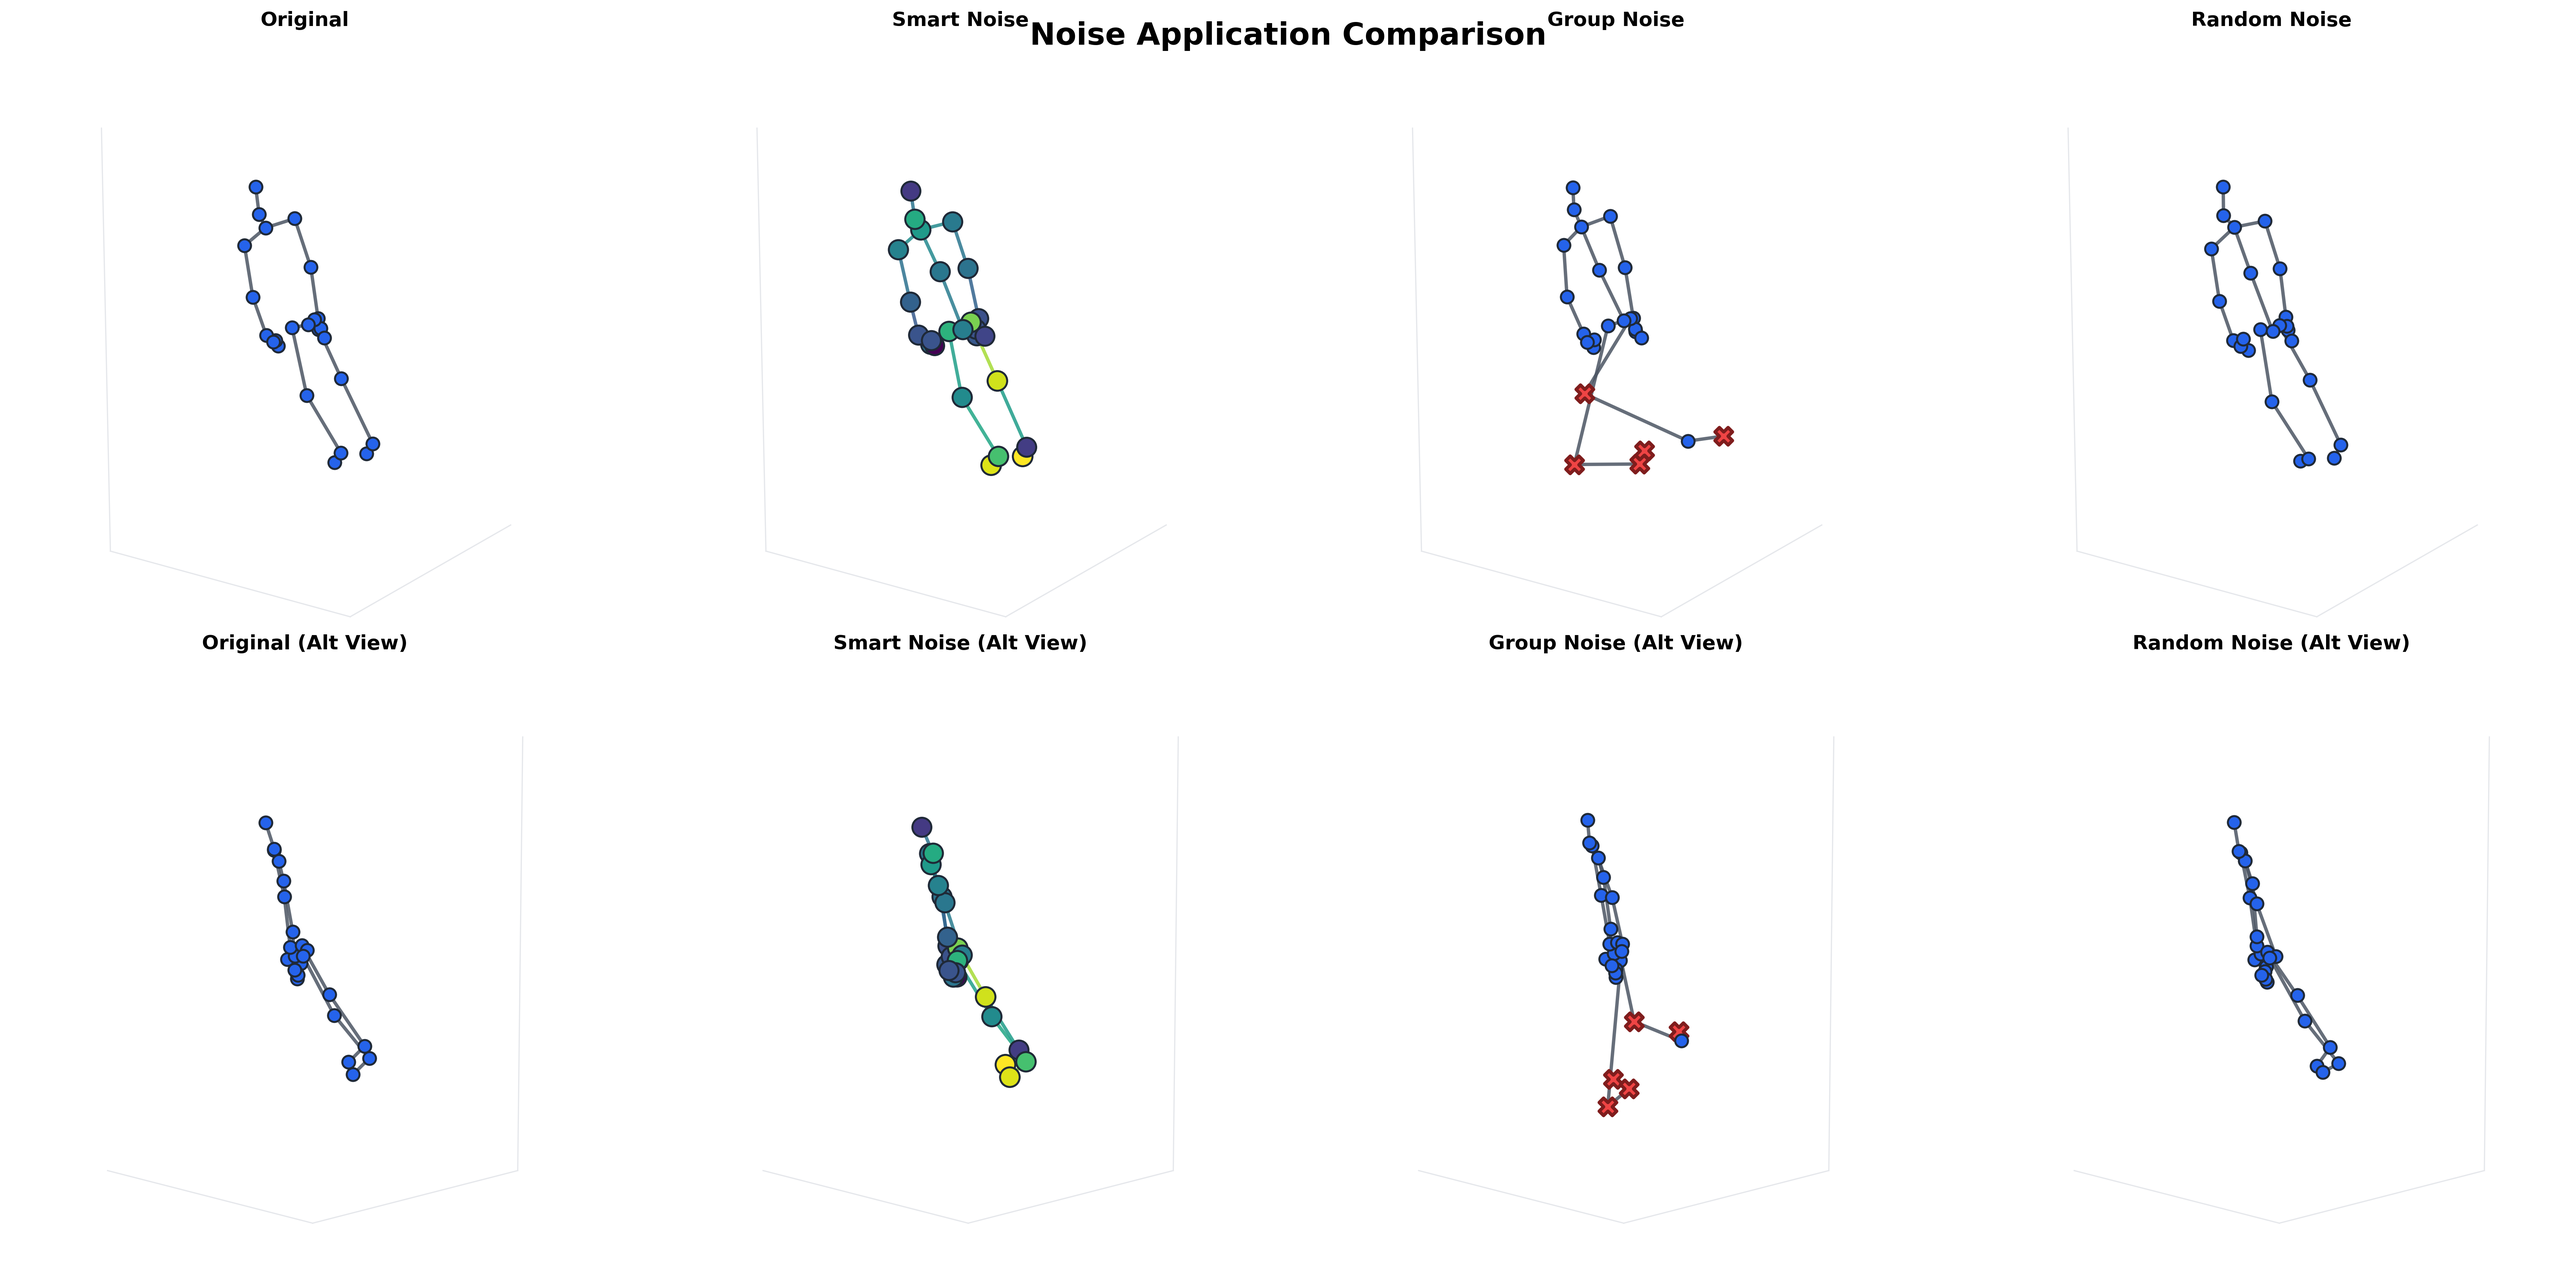
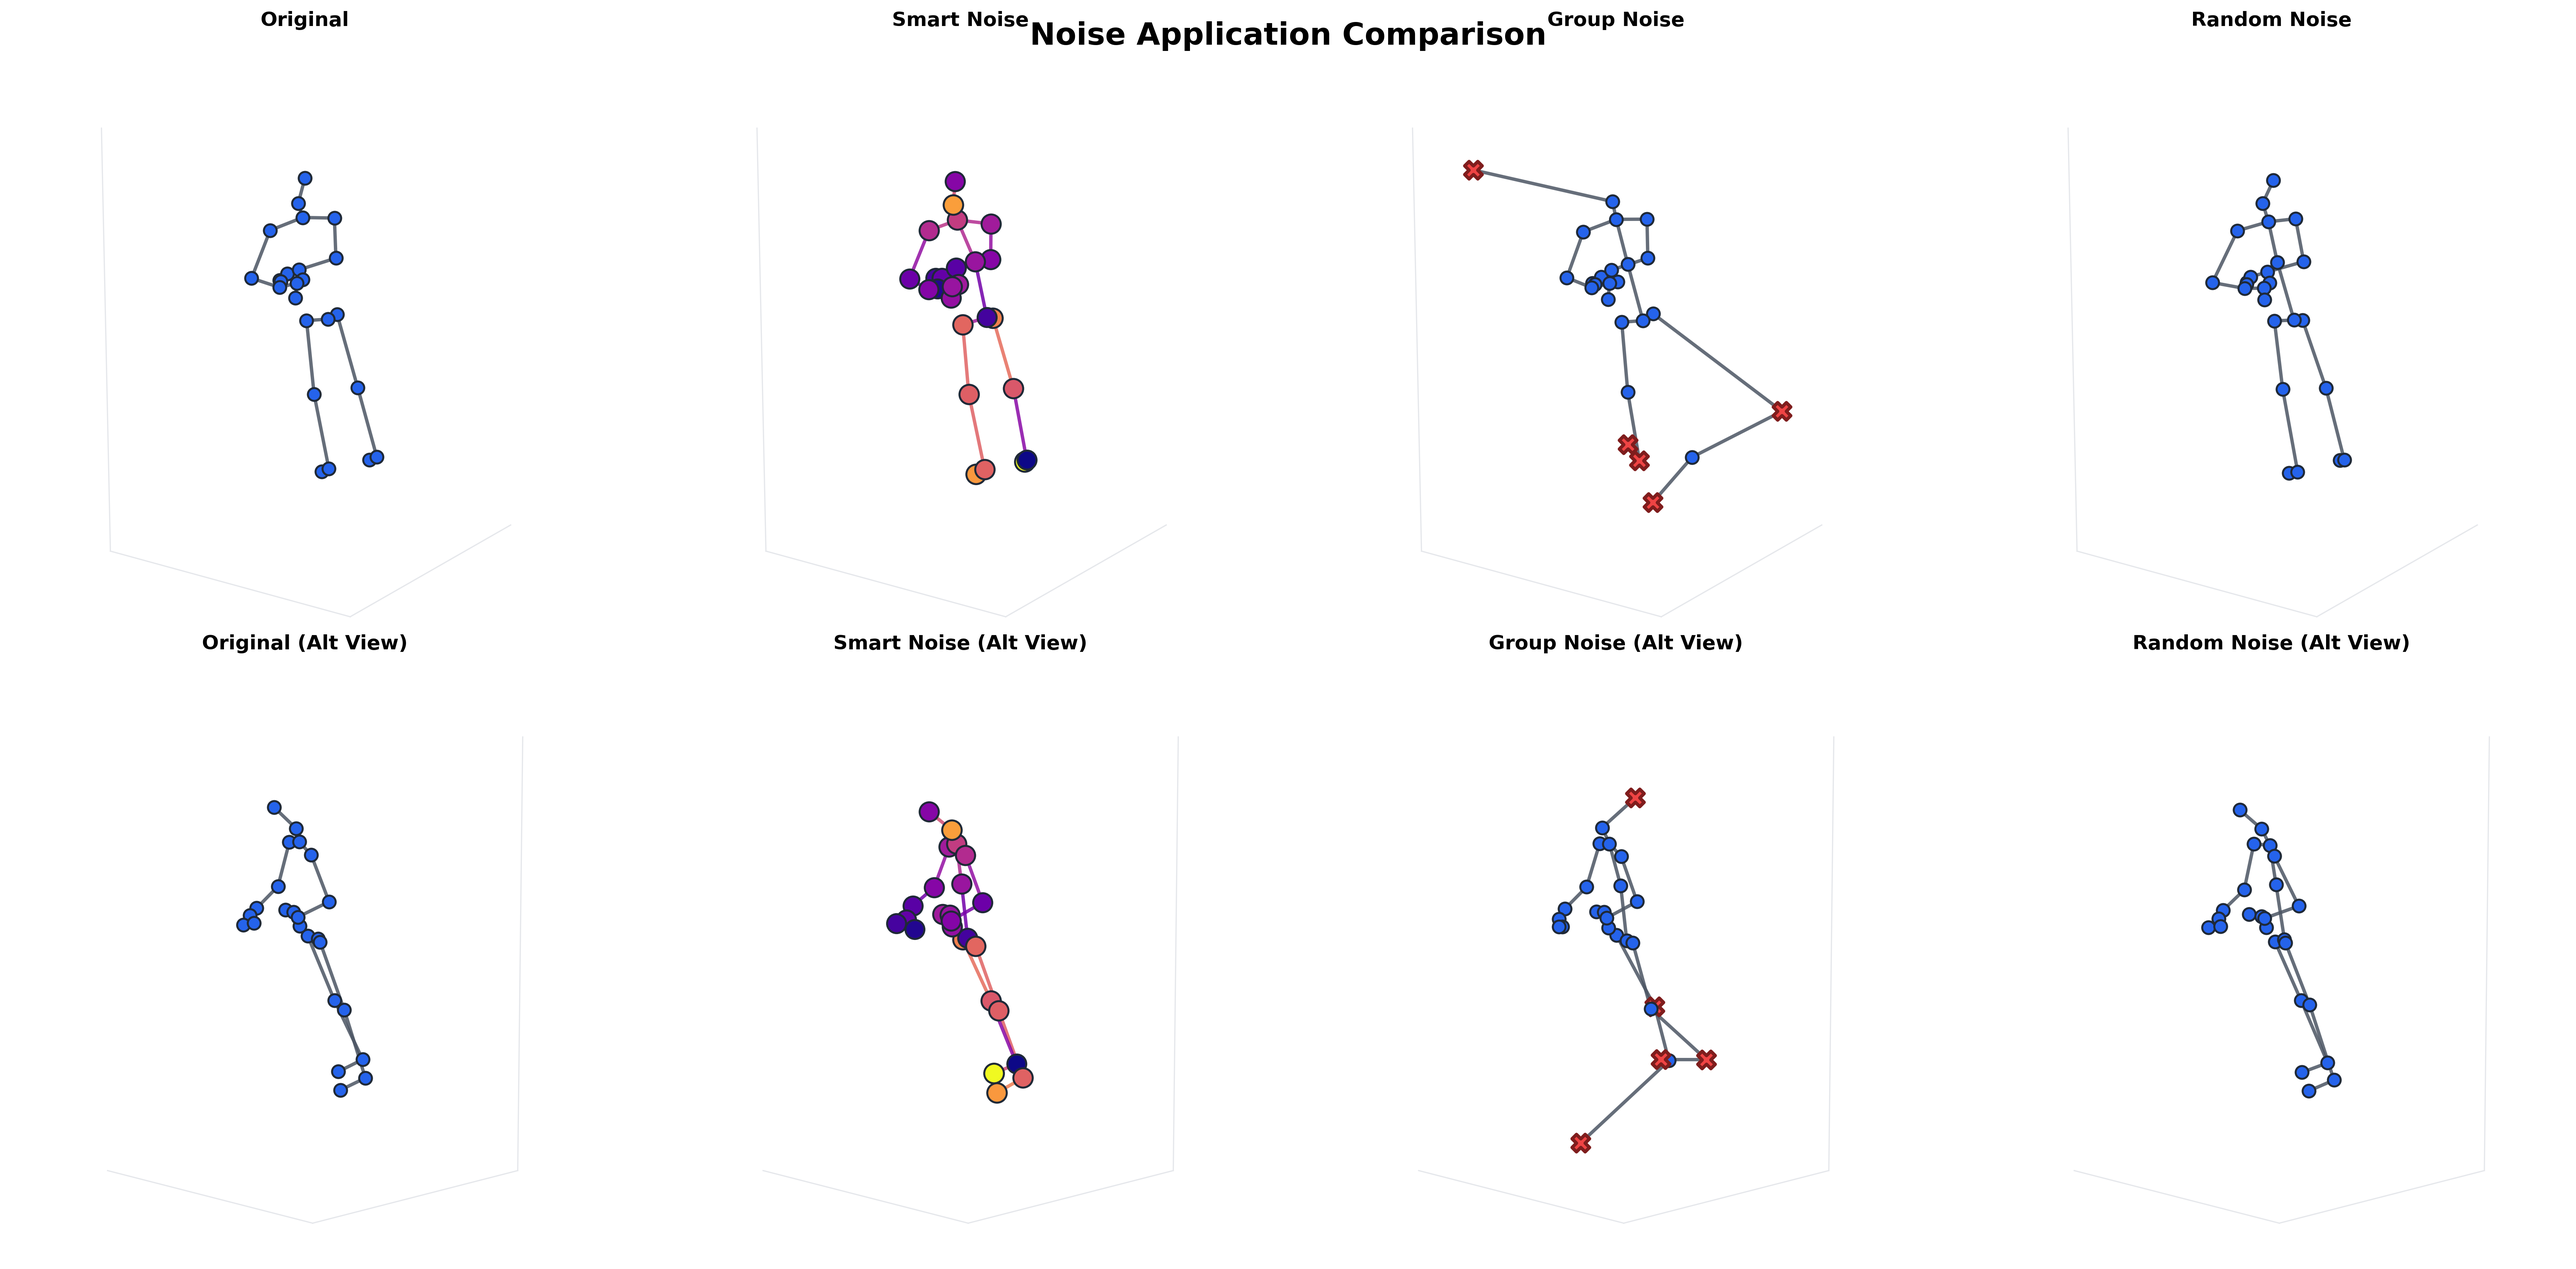
updated vis

diff --git a/visualizations/scripts/figure_generators.py b/visualizations/scripts/figure_generators.py
@@ -14,7 +14,8 @@ from pathlib import Path
 from data_utils import apply_smart_masking
 
 def generate_teaser_figure(samples, explanation, out_dir):
-    skel, lbl = samples[0]
+    sample = samples[0]
+    skel, lbl = sample[0], sample[1]  # Handle both old and new format
     resh      = reshape_skeleton(skel)
     bounds, *_ = calculate_global_bounds(resh)
 
@@ -49,7 +50,8 @@ def generate_teaser_figure(samples, explanation, out_dir):
     plt.close(fig)
 
 def generate_skeleton_sensitivity_figure(samples, explanation, out_dir):
-    skel, lbl = samples[0]
+    sample = samples[0]
+    skel, lbl = sample[0], sample[1]  # Handle both old and new format
     lbl = int(lbl)
     resh = reshape_skeleton(skel)
     frm = extract_joints_from_frame(resh[0])
@@ -85,7 +87,8 @@ def generate_skeleton_sensitivity_figure(samples, explanation, out_dir):
 
 def generate_skeleton_attribution_figure(samples, explanation, out_dir):
     """Generate skeleton visualization showing separate privacy and utility attribution scores"""
-    skel, lbl = samples[0]
+    sample = samples[0]
+    skel, lbl = sample[0], sample[1]  # Handle both old and new format
     lbl = int(lbl)
     resh = reshape_skeleton(skel)
     frm = extract_joints_from_frame(resh[0])
@@ -103,10 +106,8 @@ def generate_skeleton_attribution_figure(samples, explanation, out_dir):
     privacy_scores_norm = {j: privacy_norm[j] for j in range(25)}
     utility_scores_norm = {j: utility_norm[j] for j in range(25)}
 
-    # Create custom yellow-to-blue colormap
-    colors = ['#FEF08A', '#93C5FD']  # Yellow to Blue from process diagram
-    n_bins = 256
-    cmap = mcolors.LinearSegmentedColormap.from_list('yellow_blue', colors, N=n_bins)
+    # Use plasma colormap to match joint sensitivity analysis
+    cmap = plt.cm.plasma
 
     views = [(18, 35), (18, -35), (18, 145), (90, -90)]
     fig = plt.figure(figsize=(16, 10))
@@ -235,7 +236,8 @@ def generate_heatmap_figure(samples, explanation, output_dir):
     all_importance = []
     sample_labels = []
 
-    for i, (skeleton, label) in enumerate(samples[:5]):  # Use first 5 samples
+    for i, sample in enumerate(samples[:5]):  # Use first 5 samples
+        skeleton, label = sample[0], sample[1]  # Handle both old and new format
         reshaped = reshape_skeleton(skeleton)
 
         # Convert label to int if needed
@@ -249,10 +251,8 @@ def generate_heatmap_figure(samples, explanation, output_dir):
         all_importance.append(importance_values)
         sample_labels.append(f'Sample {i+1}')
 
-    # Create custom yellow-to-blue colormap
-    colors = ['#FFFF00', "#0000FF"]  # Yellow to Blue from process diagram
-    n_bins = 256
-    cmap = mcolors.LinearSegmentedColormap.from_list('yellow_blue', colors, N=n_bins)
+    # Use plasma colormap to match joint sensitivity analysis
+    cmap = plt.cm.plasma
 
     # Create heatmap
     fig, ax = plt.subplots(1, 1, figsize=(12, 8))
@@ -264,7 +264,7 @@ def generate_heatmap_figure(samples, explanation, output_dir):
                 xticklabels=joint_names,
                 yticklabels=sample_labels,
                 annot=False,  # Remove numbers from heatmap
-                cmap=cmap,    # Use yellow-to-blue colormap
+                cmap=cmap,    # Use plasma colormap
                 cbar_kws={'label': 'Importance Score'},
                 ax=ax)
 
@@ -288,7 +288,8 @@ def generate_heatmap_figure(samples, explanation, output_dir):
     plt.close()
 
 def generate_before_after_masking_figure(samples, explanation, out_dir, beta=0.2):
-    skel, lbl = samples[0]
+    sample = samples[0]
+    skel, lbl = sample[0], sample[1]  # Handle both old and new format
     resh = reshape_skeleton(skel)
     frames = [0, 5, 10]                   # three evenly-spaced frames
 
@@ -321,7 +322,8 @@ def generate_noise_comparison_figure(samples, explanation, output_dir):
     """Generate stunning comparison of smart noise, group noise, and random noise"""
     print("Generating noise comparison figure...")
 
-    skeleton, label = samples[0]
+    sample = samples[0]
+    skeleton, label = sample[0], sample[1]  # Handle both old and new format
     reshaped = reshape_skeleton(skeleton)
 
     # Apply different noise types
@@ -345,7 +347,7 @@ def generate_noise_comparison_figure(samples, explanation, output_dir):
     ax2 = fig.add_subplot(2, 4, 2, projection='3d', facecolor='white')
     smart_joints = extract_joints_from_frame(reshape_skeleton(smart_noisy)[frame_idx])
     draw_skeleton_3d(ax2, smart_joints, importance_scores=smart_importance,
-                    title='Smart Noise', colormap='viridis', fixed_bounds=bounds_3d)
+                    title='Smart Noise', colormap='plasma', fixed_bounds=bounds_3d)
 
     # Group noise
     ax3 = fig.add_subplot(2, 4, 3, projection='3d', facecolor='white')
@@ -365,7 +367,7 @@ def generate_noise_comparison_figure(samples, explanation, output_dir):
 
     ax6 = fig.add_subplot(2, 4, 6, projection='3d', facecolor='white')
     draw_skeleton_3d(ax6, smart_joints, importance_scores=smart_importance,
-                    title='Smart Noise (Alt View)', colormap='viridis', fixed_bounds=bounds_3d)
+                    title='Smart Noise (Alt View)', colormap='plasma', fixed_bounds=bounds_3d)
     ax6.view_init(elev=10, azim=-45)
 
     ax7 = fig.add_subplot(2, 4, 7, projection='3d', facecolor='white')
@@ -386,40 +388,69 @@ def generate_noise_comparison_figure(samples, explanation, output_dir):
 def save_skeleton_file_info(samples, output_dir):
     """
     Save skeleton file information to a text file.
-    Since original skeleton filenames are not preserved in the h5 data,
-    save actor and action IDs with indexing information.
+    Now includes actor ID and original skeleton filename information.
     """
     info_file = os.path.join(output_dir, 'skeleton_file_info.txt')
 
     with open(info_file, 'w') as f:
         f.write("Skeleton File Information\n")
         f.write("=" * 50 + "\n\n")
-        f.write("Note: Original skeleton filenames are not available in the processed h5 data.\n")
-        f.write("The following information is extracted from the sample labels:\n\n")
+        f.write("Skeleton files used for all visualizations:\n\n")
         f.write("Indexing: All IDs are 0-indexed (starting from 0)\n\n")
 
-        for i, (skeleton, label) in enumerate(samples[:5]):
-            # Convert label to int if needed
-            if isinstance(label, np.ndarray):
-                label_int = int(label.item())
-            elif isinstance(label, (np.int64, np.int32)):
-                label_int = int(label)
-            else:
-                label_int = int(label)
+        for i, sample in enumerate(samples[:5]):
+            if len(sample) == 3:
+                skeleton, label, metadata = sample
+                if metadata:
+                    # Convert label to int if needed
+                    if isinstance(label, np.ndarray):
+                        label_int = int(label.item())
+                    elif isinstance(label, (np.int64, np.int32)):
+                        label_int = int(label)
+                    else:
+                        label_int = int(label)
 
-            f.write(f"Sample {i+1}:\n")
-            f.write(f"  Action ID: {label_int} (0-indexed)\n")
-            f.write(f"  Note: Actor ID not available in current data structure\n")
-            f.write(f"  Original filename pattern would be: S###C###P###R###A{label_int+1:03d}.skeleton\n")
-            f.write(f"  (where ### represents unknown setup, camera, performer, replication values)\n\n")
+                    f.write(f"Sample {i+1}:\n")
+                    f.write(f"  Original filename: {metadata['filename']}.skeleton\n")
+                    f.write(f"  Actor ID: {metadata['actor_id']} (0-indexed, original: P{metadata['actor_id']+1:03d})\n")
+                    f.write(f"  Action ID: {metadata['action_id']} (0-indexed, original: A{metadata['action_id']+1:03d})\n")
+                    f.write(f"  Label from h5: {label_int}\n")
+
+                    # Parse additional info from filename
+                    filename = metadata['filename']
+                    setup_id = int(filename[1:4])
+                    camera_id = int(filename[5:8])
+                    replication_id = int(filename[13:16])
+
+                    f.write(f"  Setup ID: {setup_id-1} (0-indexed, original: S{setup_id:03d})\n")
+                    f.write(f"  Camera ID: {camera_id-1} (0-indexed, original: C{camera_id:03d})\n")
+                    f.write(f"  Replication ID: {replication_id-1} (0-indexed, original: R{replication_id:03d})\n\n")
+                else:
+                    f.write(f"Sample {i+1}: Metadata not available\n\n")
+            else:
+                # Handle old format for backward compatibility
+                skeleton, label = sample
+                if isinstance(label, np.ndarray):
+                    label_int = int(label.item())
+                elif isinstance(label, (np.int64, np.int32)):
+                    label_int = int(label)
+                else:
+                    label_int = int(label)
+
+                f.write(f"Sample {i+1}:\n")
+                f.write(f"  Action ID: {label_int} (0-indexed)\n")
+                f.write(f"  Note: Actor ID not available in current data structure\n\n")
 
         f.write("Legend:\n")
-        f.write("  S = Setup ID\n")
-        f.write("  C = Camera ID\n")
-        f.write("  P = Performer/Actor ID\n")
-        f.write("  R = Replication ID\n")
-        f.write("  A = Action ID\n\n")
+        f.write("  S = Setup ID (recording setup)\n")
+        f.write("  C = Camera ID (camera viewpoint)\n")
+        f.write("  P = Performer/Actor ID (person performing the action)\n")
+        f.write("  R = Replication ID (repetition number)\n")
+        f.write("  A = Action ID (action class)\n\n")
         f.write("Note: In the original NTU dataset, IDs in filenames are 1-indexed,\n")
-        f.write("but in the processed data they are converted to 0-indexed for ML purposes.\n")
+        f.write("but in the processed data they are converted to 0-indexed for ML purposes.\n\n")
+        f.write("Privacy Attribution Analysis:\n")
+        f.write("The Actor ID is crucial for privacy attribution analysis as it represents\n")
+        f.write("the identity that the re-identification model tries to predict.\n")
 
     print(f"Skeleton file information saved to: {info_file}")

diff --git a/visualizations/scripts/data_utils.py b/visualizations/scripts/data_utils.py
@@ -11,7 +11,7 @@ import math
 
 def load_ntu_data(dataset='NTU', case=0, tag='ar', num_samples=5):
     """
-    Load sample data from NTU dataset
+    Load sample data from NTU dataset with metadata
 
     Args:
         dataset: 'NTU', 'NTU120', or 'ETRI'
@@ -20,30 +20,59 @@ def load_ntu_data(dataset='NTU', case=0, tag='ar', num_samples=5):
         num_samples: number of random samples to load
 
     Returns:
-        samples: list of (skeleton_data, label) tuples
+        samples: list of (skeleton_data, label, metadata) tuples
+        where metadata contains: {'filename': str, 'actor_id': int, 'action_id': int}
     """
     if dataset == 'NTU':
         metric = 'CS' if case == 0 else 'CV'
         path = f'./data/ntu/NTU_{metric}_{tag}.h5'
+        stats_dir = './data/ntu/statistics'
     elif dataset == 'NTU120':
         metric = 'CS' if case == 0 else 'CV'
         path = f'./data/ntu120/NTU_{metric}_{tag}.h5'
+        stats_dir = './data/ntu120/statistics'
     elif dataset == 'ETRI':
         metric = 'CS' if case == 0 else 'CV'
         path = f'./data/etri/ETRI_{metric}_{tag}.h5'
+        stats_dir = './data/etri/statistics'
     else:
         raise ValueError(f"Unknown dataset: {dataset}")
 
     if not os.path.exists(path):
         raise FileNotFoundError(f"Data file not found: {path}")
 
+    # Load skeleton data
     with h5py.File(path, 'r') as f:
         X = f['x'][:]
         Y = np.argmax(f['y'][:], -1)
 
-    # Randomly sample data
+    # Load metadata files
+    try:
+        with open(os.path.join(stats_dir, 'skes_available_name.txt'), 'r') as f:
+            filenames = [line.strip() for line in f.readlines()]
+
+        with open(os.path.join(stats_dir, 'performer.txt'), 'r') as f:
+            performers = [int(line.strip()) for line in f.readlines()]
+
+        with open(os.path.join(stats_dir, 'label.txt'), 'r') as f:
+            actions = [int(line.strip()) for line in f.readlines()]
+    except FileNotFoundError as e:
+        print(f"Warning: Could not load metadata files: {e}")
+        # Fallback to basic data without metadata
+        indices = random.sample(range(len(X)), min(num_samples, len(X)))
+        samples = [(X[i], Y[i], None) for i in indices]
+        return samples
+
+    # Randomly sample data with metadata
     indices = random.sample(range(len(X)), min(num_samples, len(X)))
-    samples = [(X[i], Y[i]) for i in indices]
+    samples = []
+    for i in indices:
+        metadata = {
+            'filename': filenames[i],
+            'actor_id': performers[i] - 1,  # Convert to 0-indexed
+            'action_id': actions[i] - 1     # Convert to 0-indexed
+        }
+        samples.append((X[i], Y[i], metadata))
 
     return samples
 

diff --git a/visualizations/scripts/generate_all_figures.py b/visualizations/scripts/generate_all_figures.py
@@ -48,7 +48,8 @@ def create_skeleton_animation(samples, explanation, output_dir, figure_type='ori
     """Create animated GIF of skeleton sequences with improved visualization"""
     print(f"Creating {figure_type} animation...")
 
-    skeleton, label = samples[0]
+    sample = samples[0]
+    skeleton, label = sample[0], sample[1]  # Handle both old and new format
     reshaped = reshape_skeleton(skeleton)
 
     # Calculate global bounds for consistent scaling
